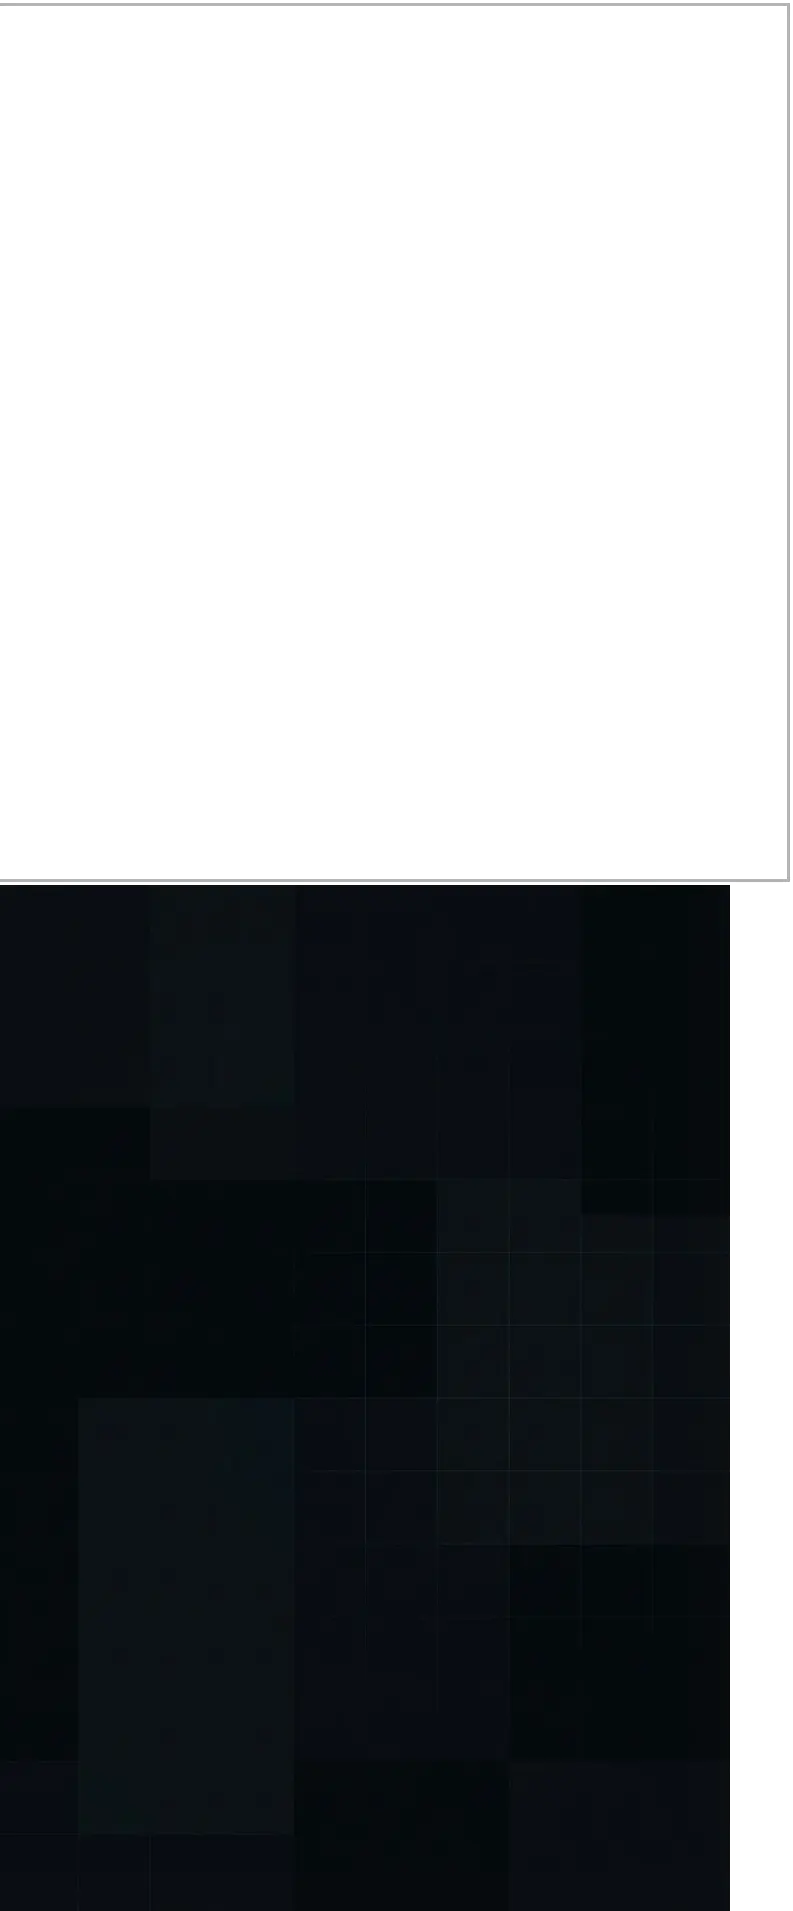
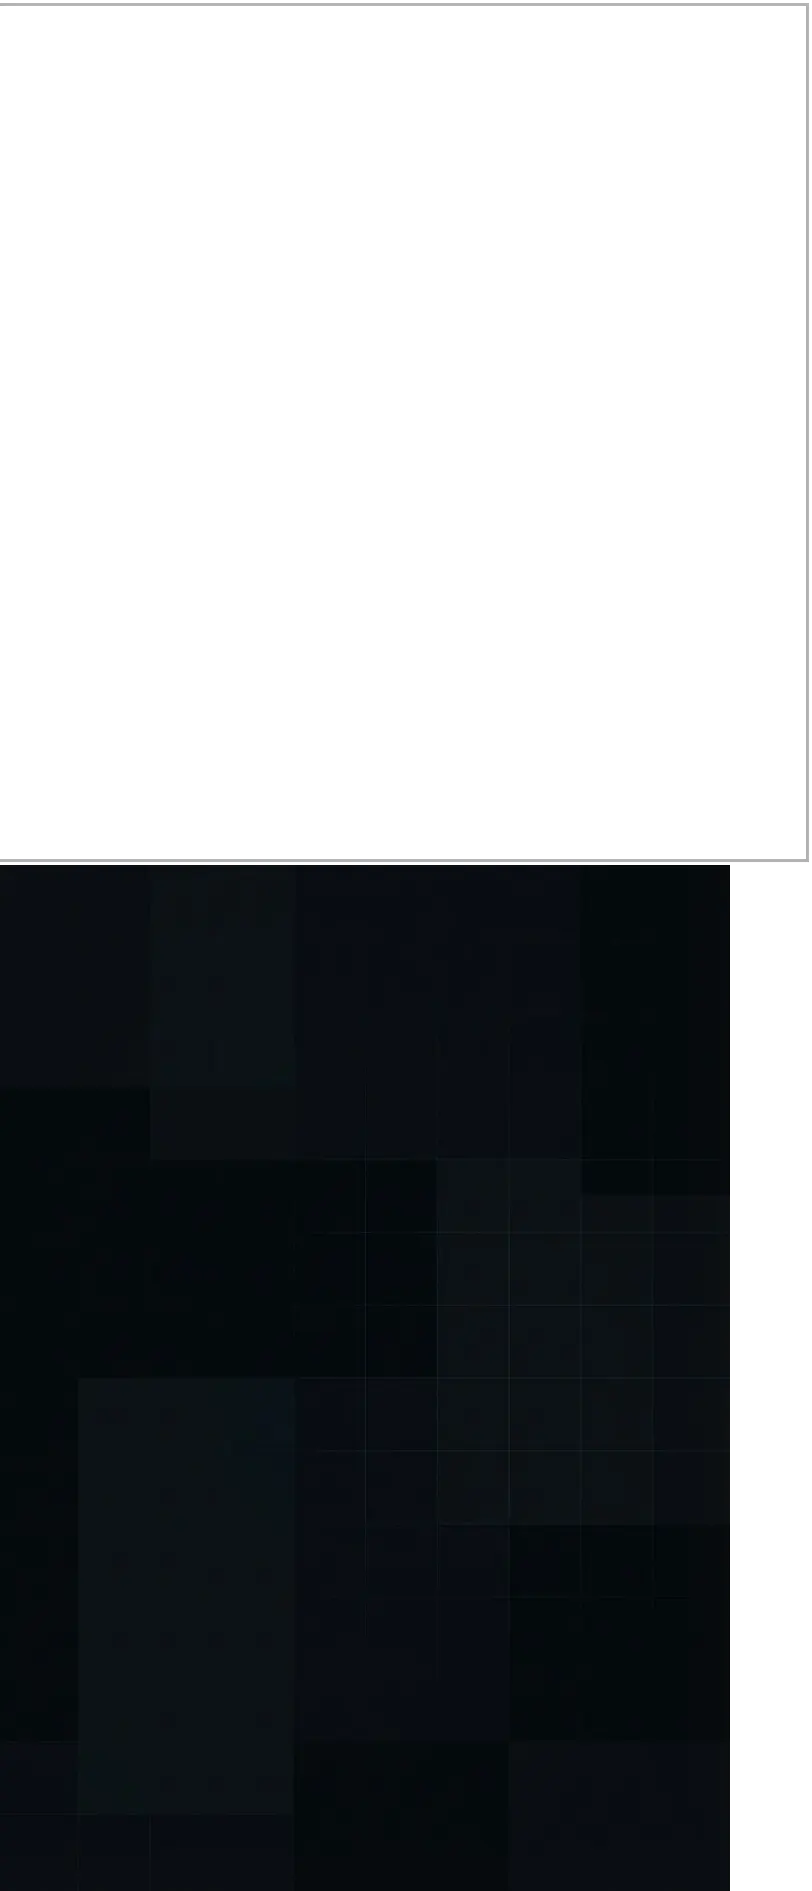
border

Changed region(s): [[0.0, 0.4368, 0.9987, 1.0]]

diff --git a/js/neuralTree.js b/js/neuralTree.js
@@ -11,6 +11,8 @@ const neuralTree = (() => {
 
     // Tree visual elements
     let panelBg = null;
+    let panelOutline = null;
+    let dragSurface = null;
     let titleText = null;
     let deployBtn = null;
     let lines = [];  // Phaser Graphics lines connecting parent → child
@@ -42,33 +44,48 @@ const neuralTree = (() => {
     }
 
     function _createPanel() {
-        // Semi-transparent dark background for the left half — now a Button for drag support
-        panelBg = new Button({
+        // Pretty background image - moves with the nodes
+        panelBg = PhaserScene.add.image(TREE_CENTER_X, GAME_CONSTANTS.halfHeight, 'backgrounds', 'upgrade_background.png');
+        panelBg.setScale(1.25);
+        panelBg.setDepth(GAME_CONSTANTS.DEPTH_NEURAL_TREE);
+        panelBg.setScrollFactor(0);
+        panelBg.setVisible(false);
+
+        // Add to treeGroup for panel transitions, and draggableGroup for scrolling sync
+        treeGroup.add(panelBg);
+        draggableGroup.add(panelBg);
+
+        // Static outline frame for the left half
+        panelOutline = PhaserScene.add.image(TREE_CENTER_X, GAME_CONSTANTS.halfHeight, 'backgrounds', 'upgrade_outline.png');
+        panelOutline.setDepth(GAME_CONSTANTS.DEPTH_NEURAL_TREE + 1);
+        panelOutline.setScrollFactor(0);
+        panelOutline.setVisible(false);
+        treeGroup.add(panelOutline);
+
+        // Invisible drag surface - covers the 800px wide panel
+        dragSurface = new Button({
             normal: {
-                ref: 'upgrade_background.png',
-                atlas: 'backgrounds',
+                ref: 'white_pixel',
                 x: TREE_CENTER_X,
                 y: GAME_CONSTANTS.halfHeight,
-                scaleX: 1.25,
-                scaleY: 1.25,
-                alpha: 1,
-                depth: GAME_CONSTANTS.DEPTH_NEURAL_TREE
+                scaleX: PANEL_W / 2, // 2x2 pixel -> 800px
+                scaleY: GAME_CONSTANTS.HEIGHT / 2, // 2x2 pixel -> 900px
+                alpha: 0.001,
+                depth: GAME_CONSTANTS.DEPTH_NEURAL_TREE + 0.1
             },
             onMouseDown: (x, y) => {
                 lastDragX = x;
                 lastDragY = y;
-                // Manually tell the manager we are dragging this background
-                // We don't use isDraggable: true to avoid the button auto-snapping its center to the mouse
-                buttonManager.setDraggedObj(panelBg);
+                buttonManager.setDraggedObj(dragSurface);
             },
             onDrag: (x, y) => {
                 const dx = x - lastDragX;
                 const dy = y - lastDragY;
 
-                // Relative clamps from start: X=(-22 to 22), Y=(0 to 600)
                 const currentX = draggableGroup.x;
                 const currentY = draggableGroup.y;
 
+                // Restrict movement based on global tree drag constants
                 const nextX = Phaser.Math.Clamp(currentX + dx, GAME_CONSTANTS.TREE_DRAG_MIN_X, GAME_CONSTANTS.TREE_DRAG_MAX_X);
                 const nextY = Phaser.Math.Clamp(currentY + dy, GAME_CONSTANTS.TREE_DRAG_MIN_Y, GAME_CONSTANTS.TREE_DRAG_MAX_Y);
 
@@ -83,28 +100,9 @@ const neuralTree = (() => {
                 lastDragY = y;
             }
         });
-
-        panelBg.setScrollFactor(0);
-        panelBg.setVisible(false);
-
-        // Add to treeGroup so it slides in/out with the panel
-        treeGroup.add(panelBg);
-        draggableGroup.add(panelBg);
-
-        // Use a custom hit area to restrict draggability to the 800px wide panel area
-        // The background sprite is 728px wide * 1.25 scale = 910px total. 
-        // We want 800px interaction width. 800 / 1.25 = 640px internal width.
-        const hitWidth = 800 / 1.25;
-        const hitHeight = GAME_CONSTANTS.HEIGHT / 1.25;
-        const sprite = panelBg.imageRefs['upgrade_background.png'];
-        if (sprite) {
-            sprite.setInteractive(new Phaser.Geom.Rectangle(
-                (sprite.width - hitWidth) / 2,
-                0,
-                hitWidth,
-                sprite.height
-            ), Phaser.Geom.Rectangle.Contains);
-        }
+        dragSurface.setScrollFactor(0);
+        dragSurface.setVisible(false);
+        treeGroup.add(dragSurface);
 
         // Title
         titleText = PhaserScene.add.text(TREE_CENTER_X, 38, 'NEURAL TREE', {
@@ -221,6 +219,8 @@ const neuralTree = (() => {
     function show() {
         visible = true;
         panelBg.setVisible(true);
+        panelOutline.setVisible(true);
+        dragSurface.setVisible(true);
         titleText.setVisible(true);
 
         // Show all nodes and refresh affordability state
@@ -245,6 +245,8 @@ const neuralTree = (() => {
     function hide() {
         visible = false;
         panelBg.setVisible(false);
+        panelOutline.setVisible(false);
+        dragSurface.setVisible(false);
         titleText.setVisible(false);
         deployBtn.setVisible(false);
         deployBtn.setState(DISABLE);
